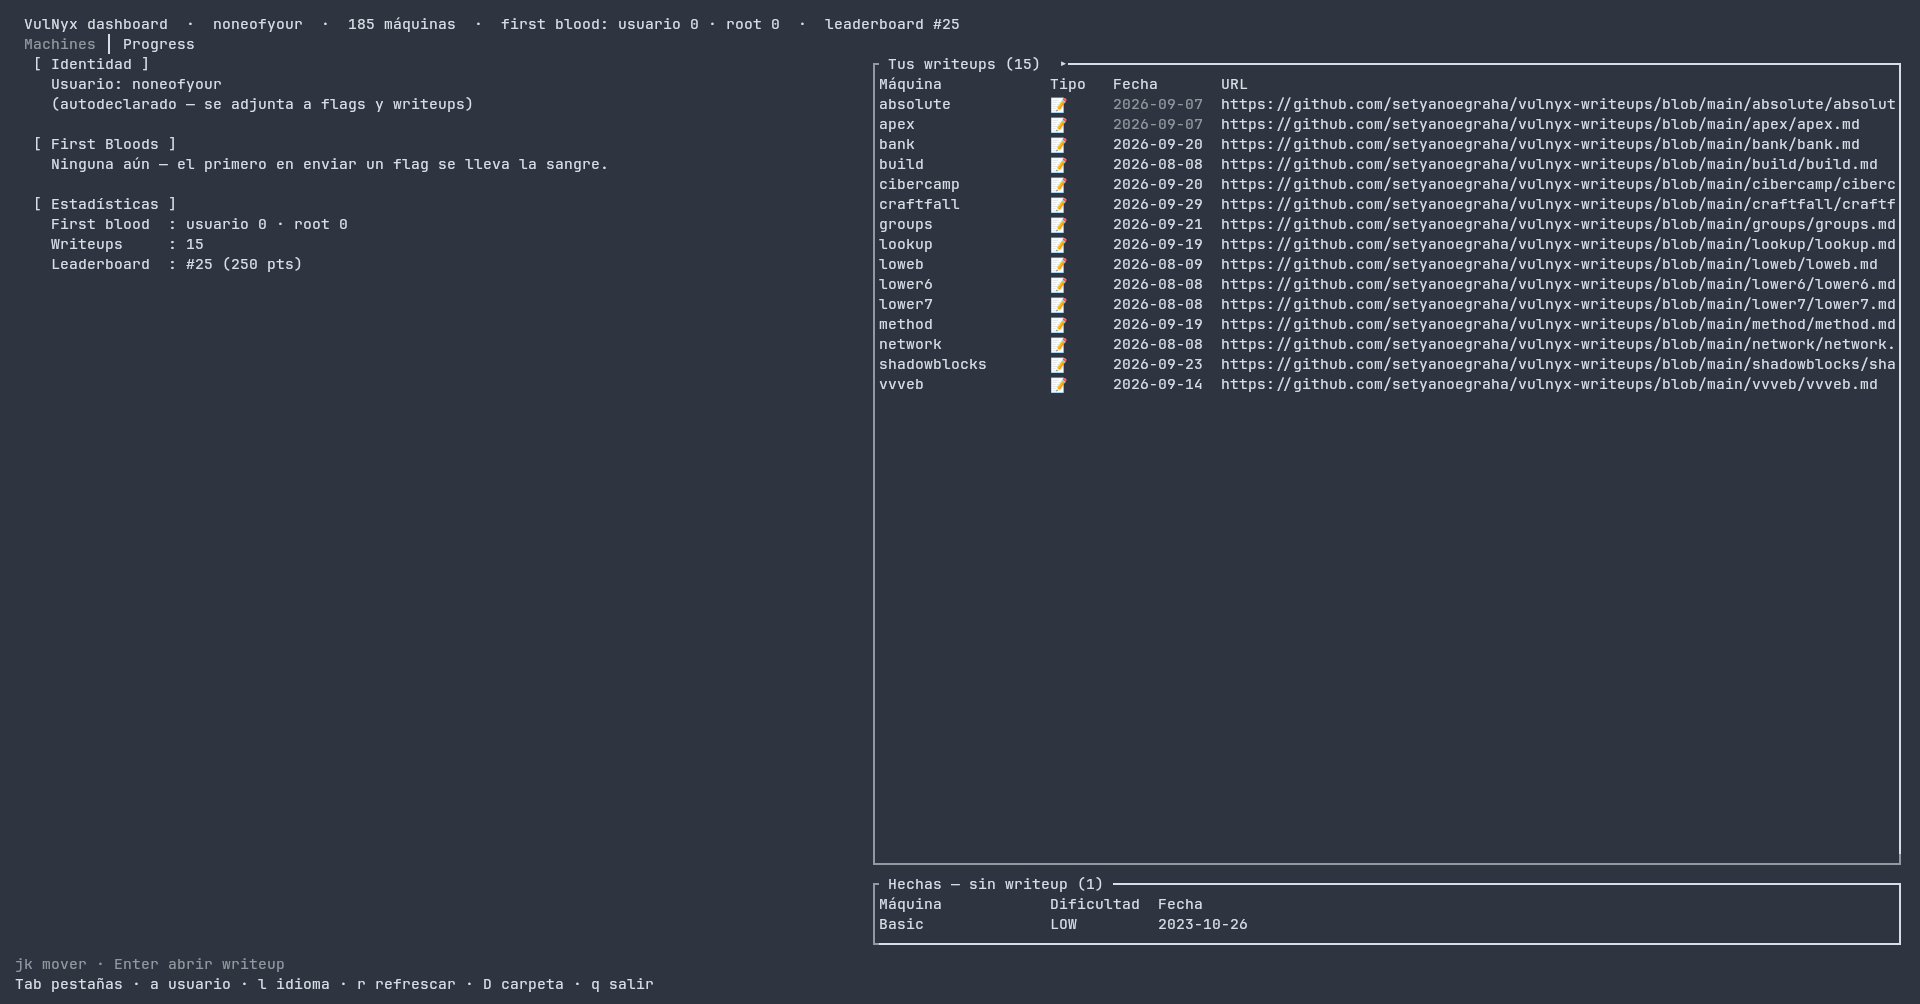
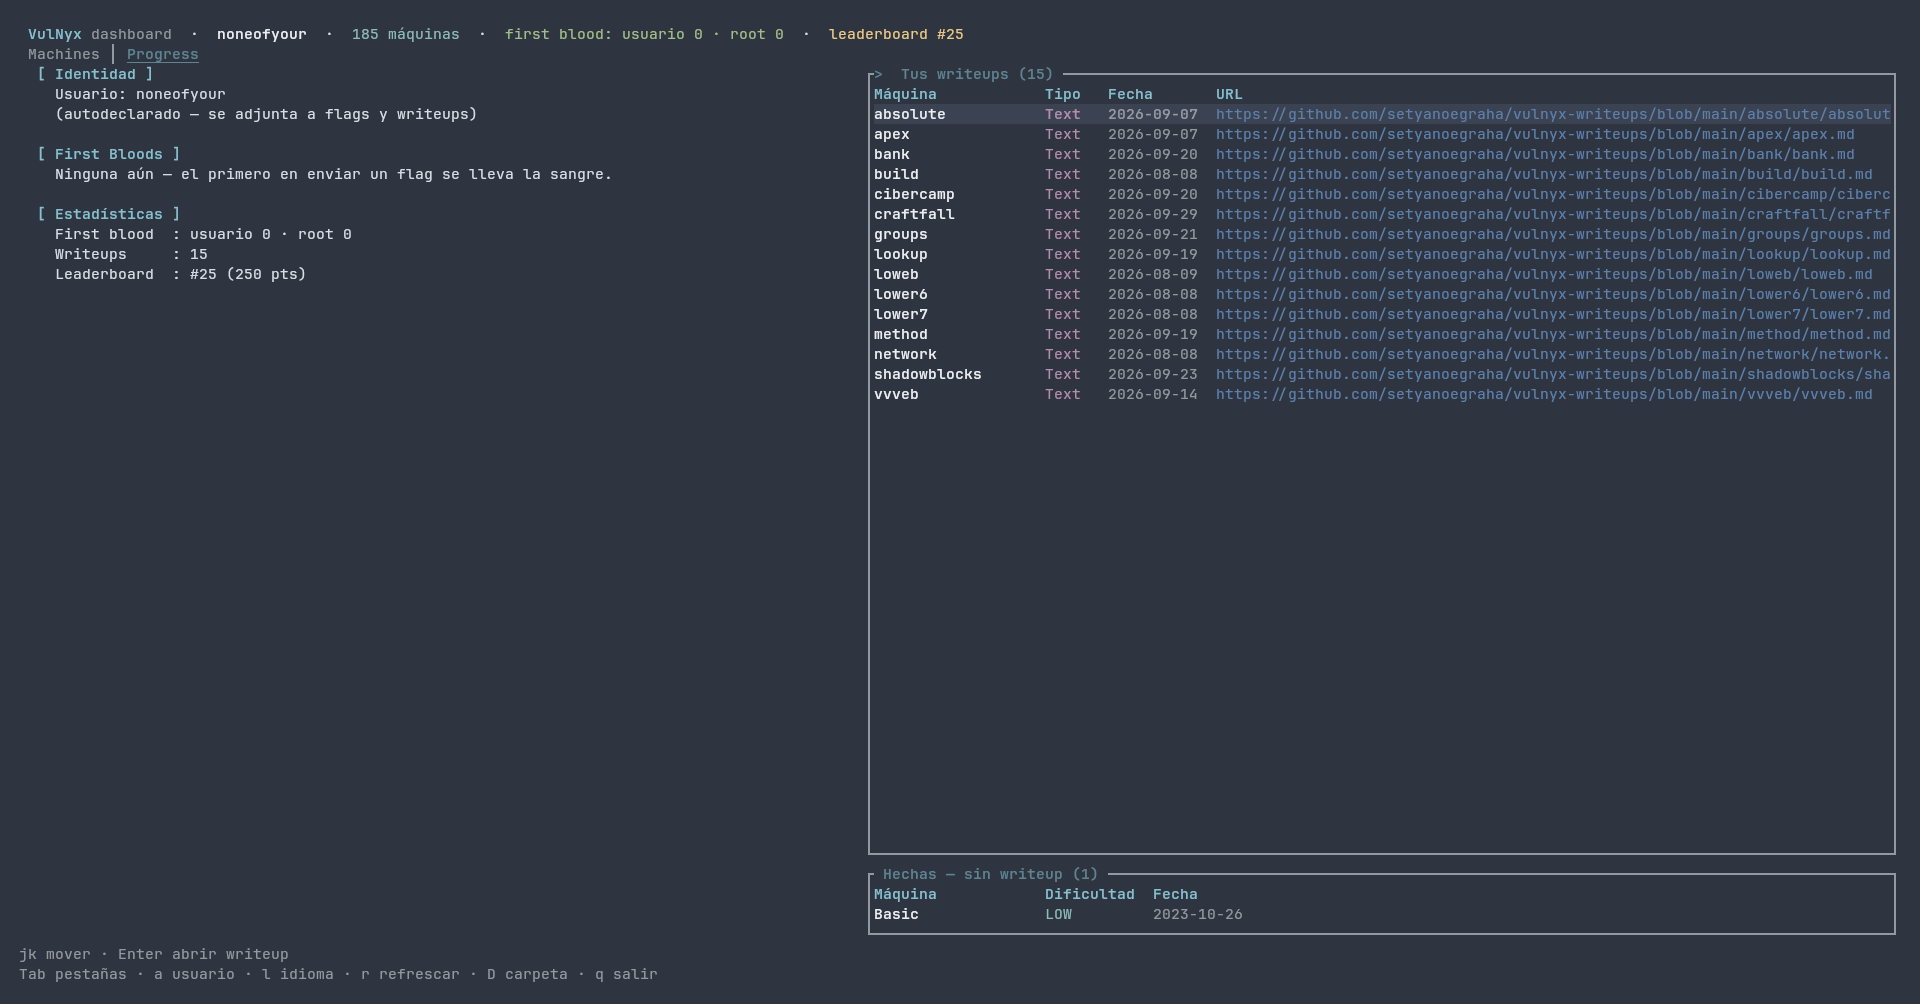
docs: recapture the screenshots with real Nord colors
The previous screenshots were grayscale: the capture shell exported
NO_COLOR=1 and TERM=dumb, so ratatui emitted no colour at all. Every image
is now taken from a kitty session with COLORTERM=truecolor and NO_COLOR
unset, which restores the Nord palette (green EASY/OK, yellow MEDIUM/WARN,
red HARD/BAD, frost-blue headings, dim borders).

While recapturing, two rendering issues showed up and are fixed:
- the writeups table drew emoji (📝/🎥) whose width varies per font and
  shifted every following column; they are now the words Text/Video
- the focus marker on the Progress tables is a plain '>' prefix on both
  tables, so the focused one is visible in any terminal font

diff --git a/src/tui/render.rs b/src/tui/render.rs
@@ -333,10 +333,12 @@ fn draw_progress(frame: &mut Frame, area: Rect, app: &AppState) {
     let rows: Vec<Row> = own
         .iter()
         .map(|(slug, w)| {
+            // Word labels, not emoji: the glyph width of 📝/🎥 varies per
+            // terminal font and shifts every column after it.
             let (tipo, tipo_style) = if w.tipo.contains("Video") {
-                ("🎥", Style::new().fg(FROST))
+                ("Video", Style::new().fg(FROST))
             } else {
-                ("📝", Style::new().fg(PURPLE))
+                ("Text", Style::new().fg(PURPLE))
             };
             let date = w.submitted_at.split(' ').next().unwrap_or("-").to_string();
             Row::new([
@@ -364,8 +366,8 @@ fn draw_progress(frame: &mut Frame, area: Rect, app: &AppState) {
             .title(Span::styled(
                 format!(
                     "{}{}",
+                    if writeups_focused { "> " } else { "" },
                     render_msg(lang, Msg::YourWriteups(own.len())),
-                    if writeups_focused { " ▸" } else { "" }
                 ),
                 Style::new().fg(ACCENT).bold(),
             ))
@@ -416,7 +418,7 @@ fn draw_progress(frame: &mut Frame, area: Rect, app: &AppState) {
                 .title(Span::styled(
                     format!(
                         "{}{}",
-                        if done_focused { ">" } else { "" },
+                        if done_focused { "> " } else { "" },
                         render_msg(lang, Msg::DoneNoWriteupTitle(done_rows.len())),
                     ),
                     Style::new().fg(ACCENT).bold(),
@@ -652,10 +654,12 @@ fn draw_writeups_popup(frame: &mut Frame, area: Rect, popup: &WriteupsPopup, lan
         .entries
         .iter()
         .map(|w| {
+            // Word labels, not emoji: the glyph width of 📝/🎥 varies per
+            // terminal font and shifts every column after it.
             let (tipo, tipo_style) = if w.tipo.contains("Video") {
-                ("🎥", Style::new().fg(FROST))
+                ("Video", Style::new().fg(FROST))
             } else {
-                ("📝", Style::new().fg(PURPLE))
+                ("Text", Style::new().fg(PURPLE))
             };
             let date = w.submitted_at.split(' ').next().unwrap_or("-").to_string();
             Row::new(vec![
@@ -904,7 +908,8 @@ mod tests {
             .map(|cell| cell.symbol())
             .collect();
         assert!(
-            rendered.contains("> Done") && rendered.contains("no writeup"),
+            rendered.contains(">  Done")
+                || rendered.contains("> Done") && rendered.contains("no writeup"),
             "focused done table should carry the focus marker; rendered:\n{rendered}"
         );
     }
